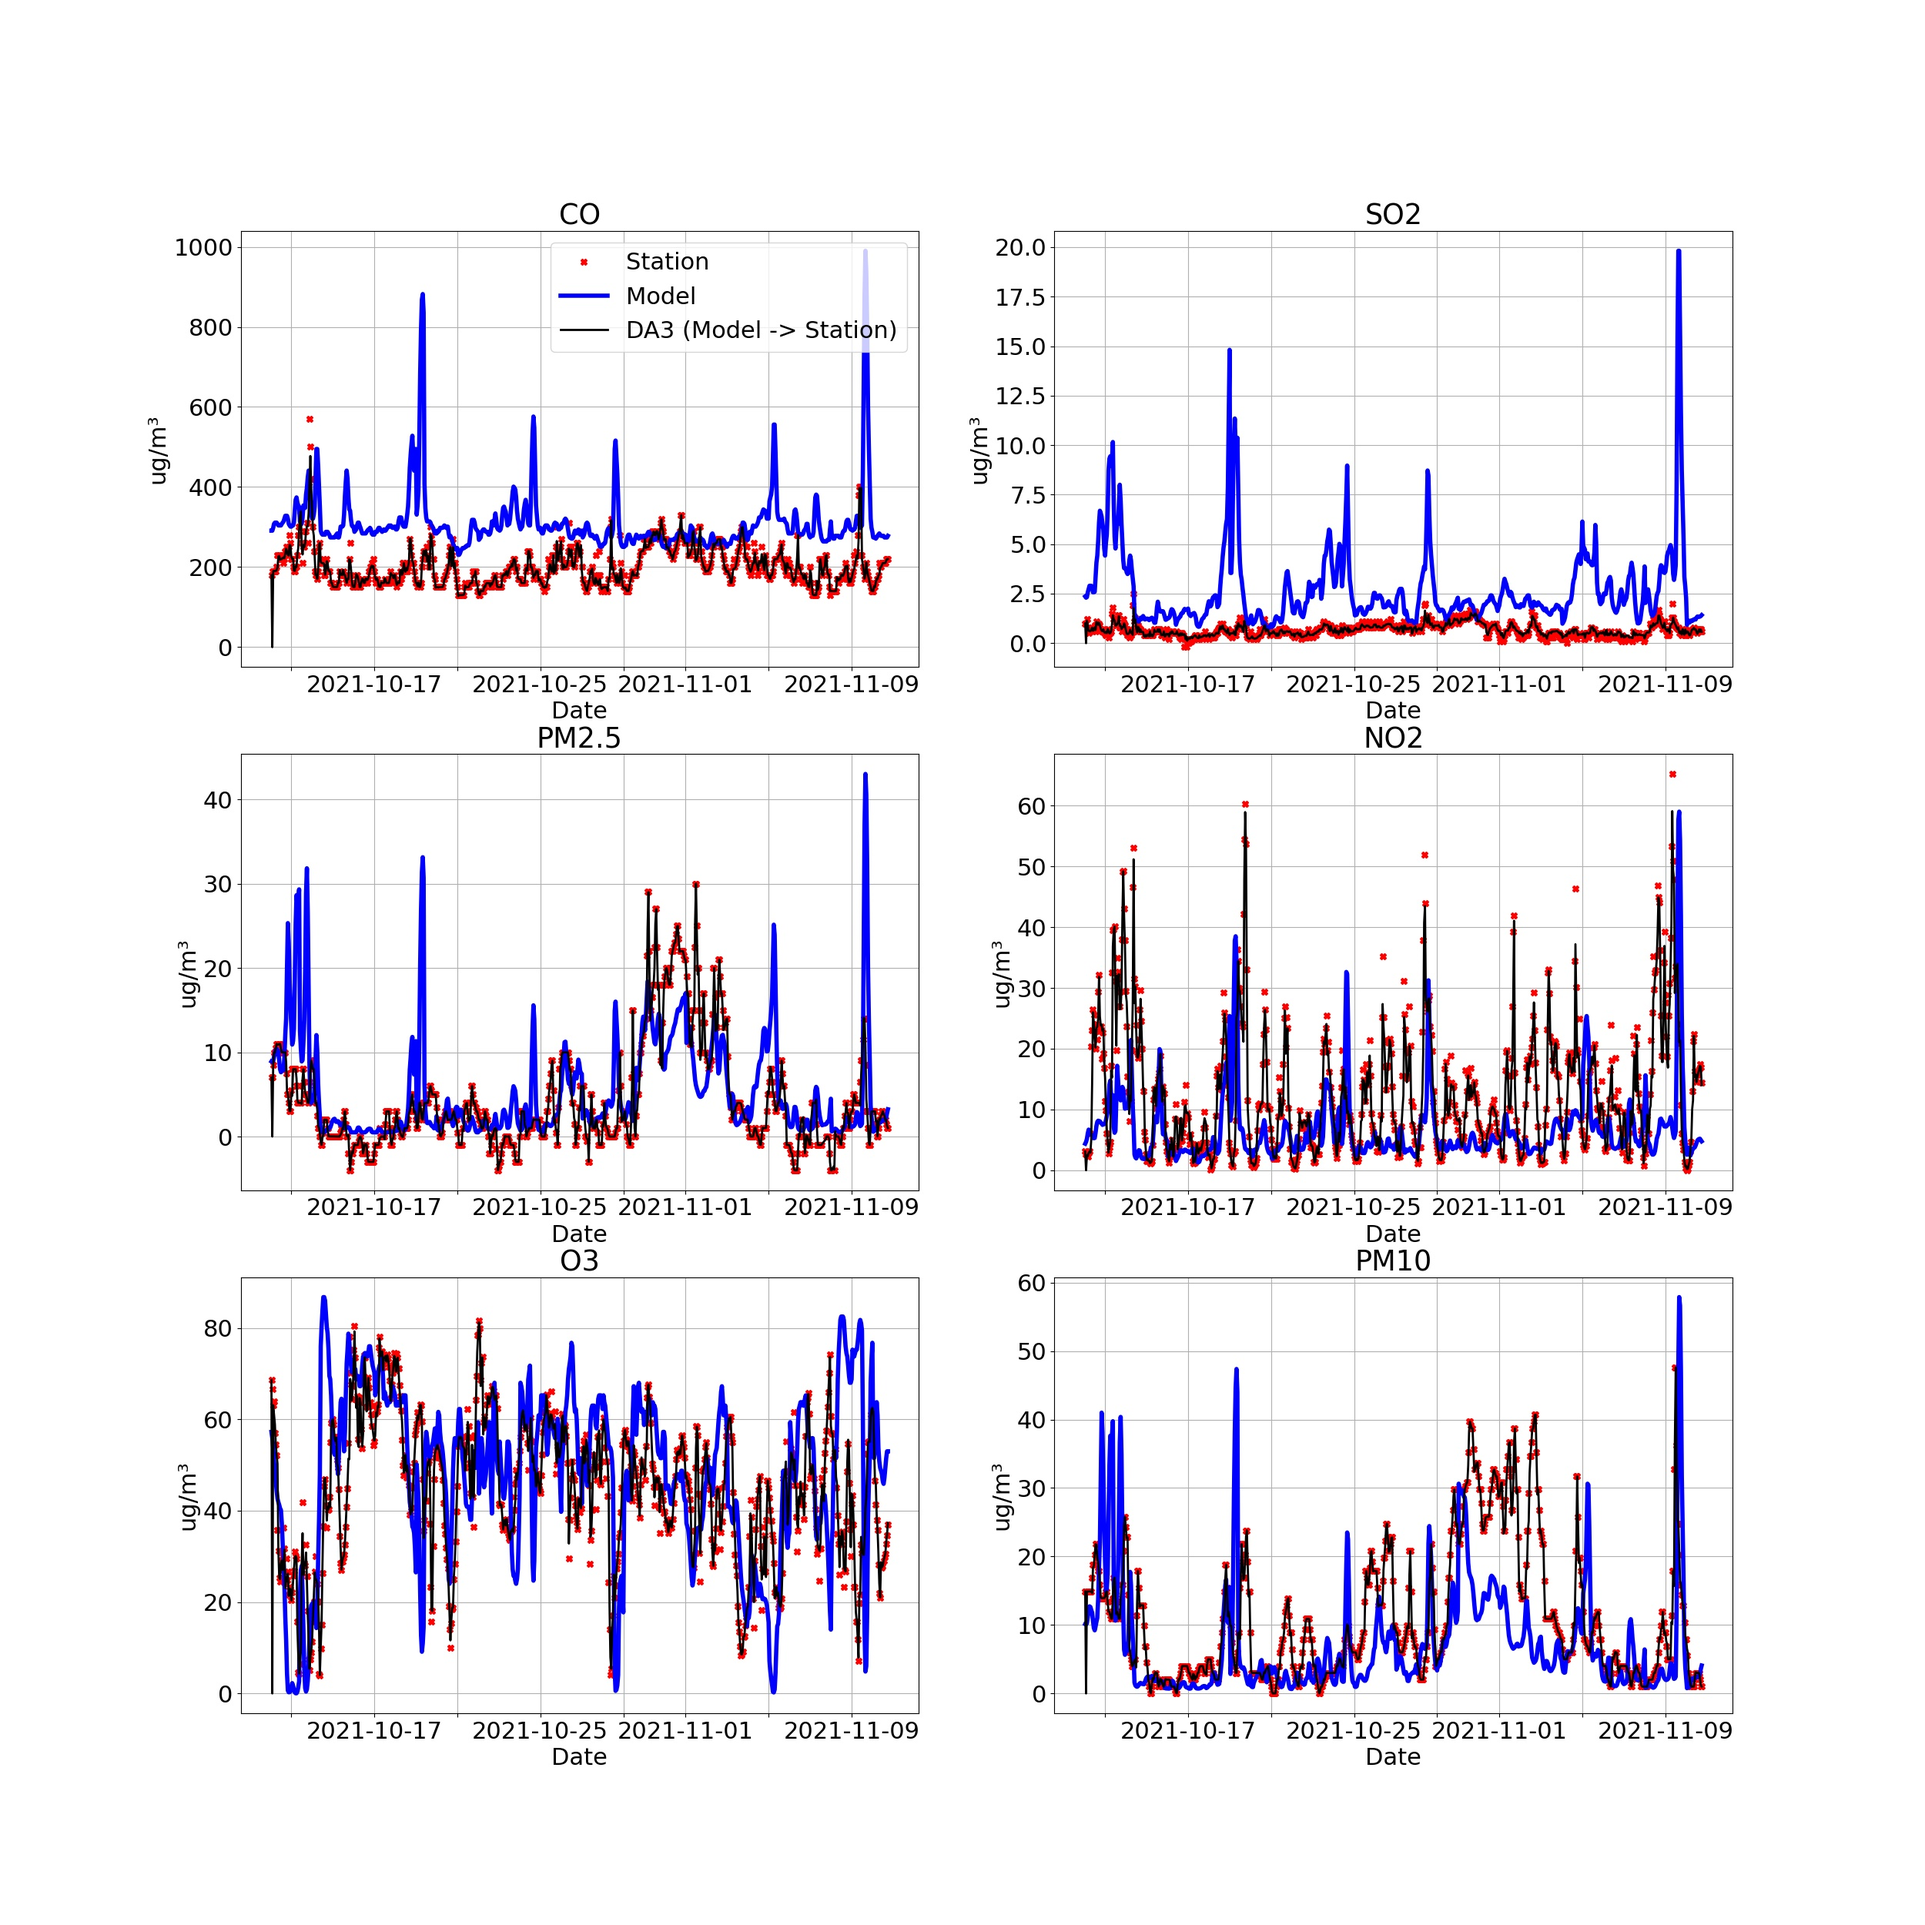
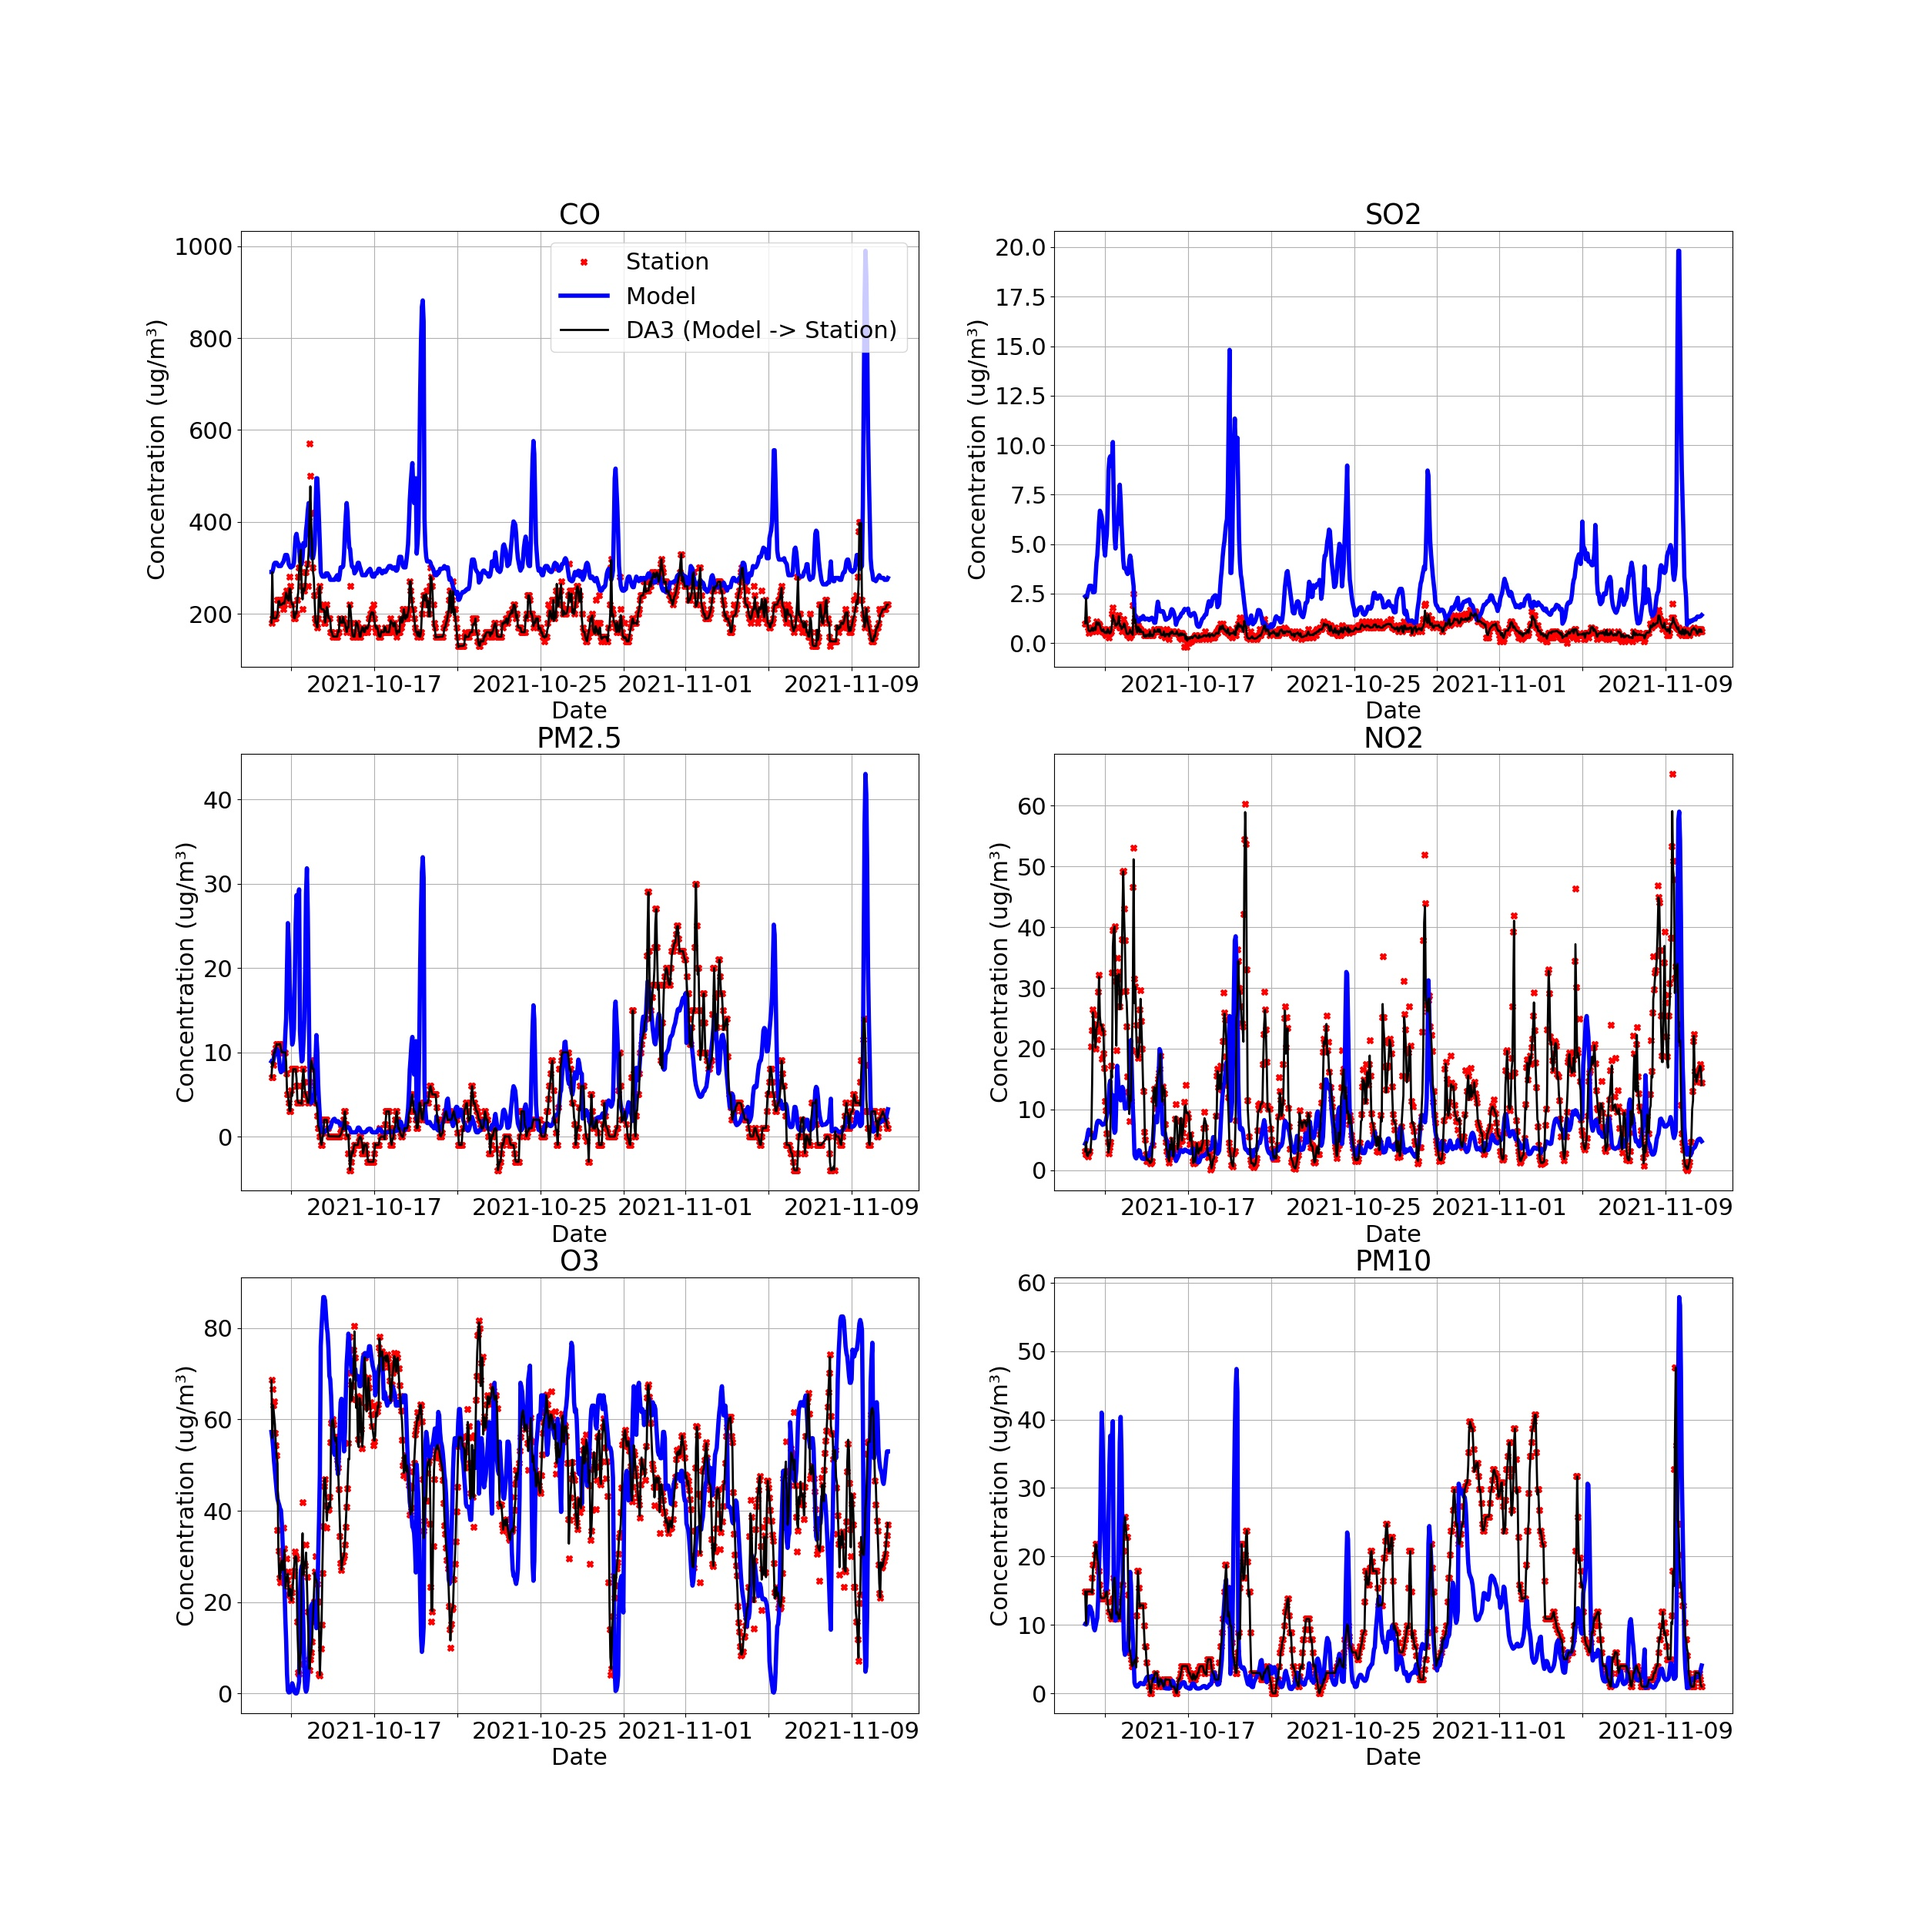
Fix for predictions using zero weights at first iterations

diff --git a/example2.py b/example2.py
@@ -195,7 +195,7 @@ def test_Liivalaia(t_in1, t_in2, s_in1, s_in2, t_out, s_out):
         seq_scenario = (
             f"Sequential DA ({'Station' if s_in1 == s_out else 'Model'})"
             if not is_multi_t
-            else f"Sequential DA ({'Model' if s_out == s_in1 else 'Station'} -> {'Station' if s_out == s_in1 else 'Model'})"
+            else f"Sequential DA4 ({'Model' if s_out == s_in1 else 'Station'} -> {'Station' if s_out == s_in1 else 'Model'})"
         )
 
         if not is_multi_t:
@@ -214,6 +214,7 @@ def test_Liivalaia(t_in1, t_in2, s_in1, s_in2, t_out, s_out):
             axs_data[idx % 3, idx % 2],
             da_scenario,
             seq_scenario,
+            "Liivalaia (Tallinn, Estonia)",
         )
 
         print_metrics_seq(
@@ -228,7 +229,7 @@ def test_Liivalaia(t_in1, t_in2, s_in1, s_in2, t_out, s_out):
         )
 
     scenario_id = f"da{'3' if not is_multi_t else '4'}-{'1' if s_out == 'obs' else '2'}"
-    fig_data.savefig(f"plots/Liivalaia/Sequential/data-{scenario_id}.jpg")
+    fig_data.savefig(f"plots/Liivalaia/Sequential/data-{scenario_id}.png")
 
 
 def test_variable_Europe_AQ(

diff --git a/helpers.py b/helpers.py
@@ -85,7 +85,7 @@ def plot_data(
         linewidth=2,
     )
     ax_data.set_xlabel("Date")
-    ax_data.set_ylabel("ug/m³")
+    ax_data.set_ylabel("Concentration (ug/m³)")
     ax_data.grid()
 
     every_nth = 2
@@ -153,8 +153,9 @@ def plot_data_seq(
     ax_data,
     da_scenario,
     seq_scenario,
+    location_label,
 ):
-    ax_data.set_title(f"{variable}")
+    ax_data.set_title(f"{variable} - {location_label}")
     ax_data.plot(
         s1.index,
         s1.values,
@@ -185,7 +186,7 @@ def plot_data_seq(
         linewidth=2,
     )
     ax_data.set_xlabel("Date")
-    ax_data.set_ylabel("ug/m³")
+    ax_data.set_ylabel("Concentration (ug/m³)")
     ax_data.grid()
 
     every_nth = 2

diff --git a/rls_assimilation/RLS.py b/rls_assimilation/RLS.py
@@ -34,5 +34,9 @@ class RLS:
         :return: predicted observation (scalar)
         """
 
+        all_zeros = not np.any(self.w)
+        if all_zeros:
+            return x
+
         X = np.reshape([1, x], (1, 2))  # reshape to a 1x2 matrix
         return float(X @ self.w)
